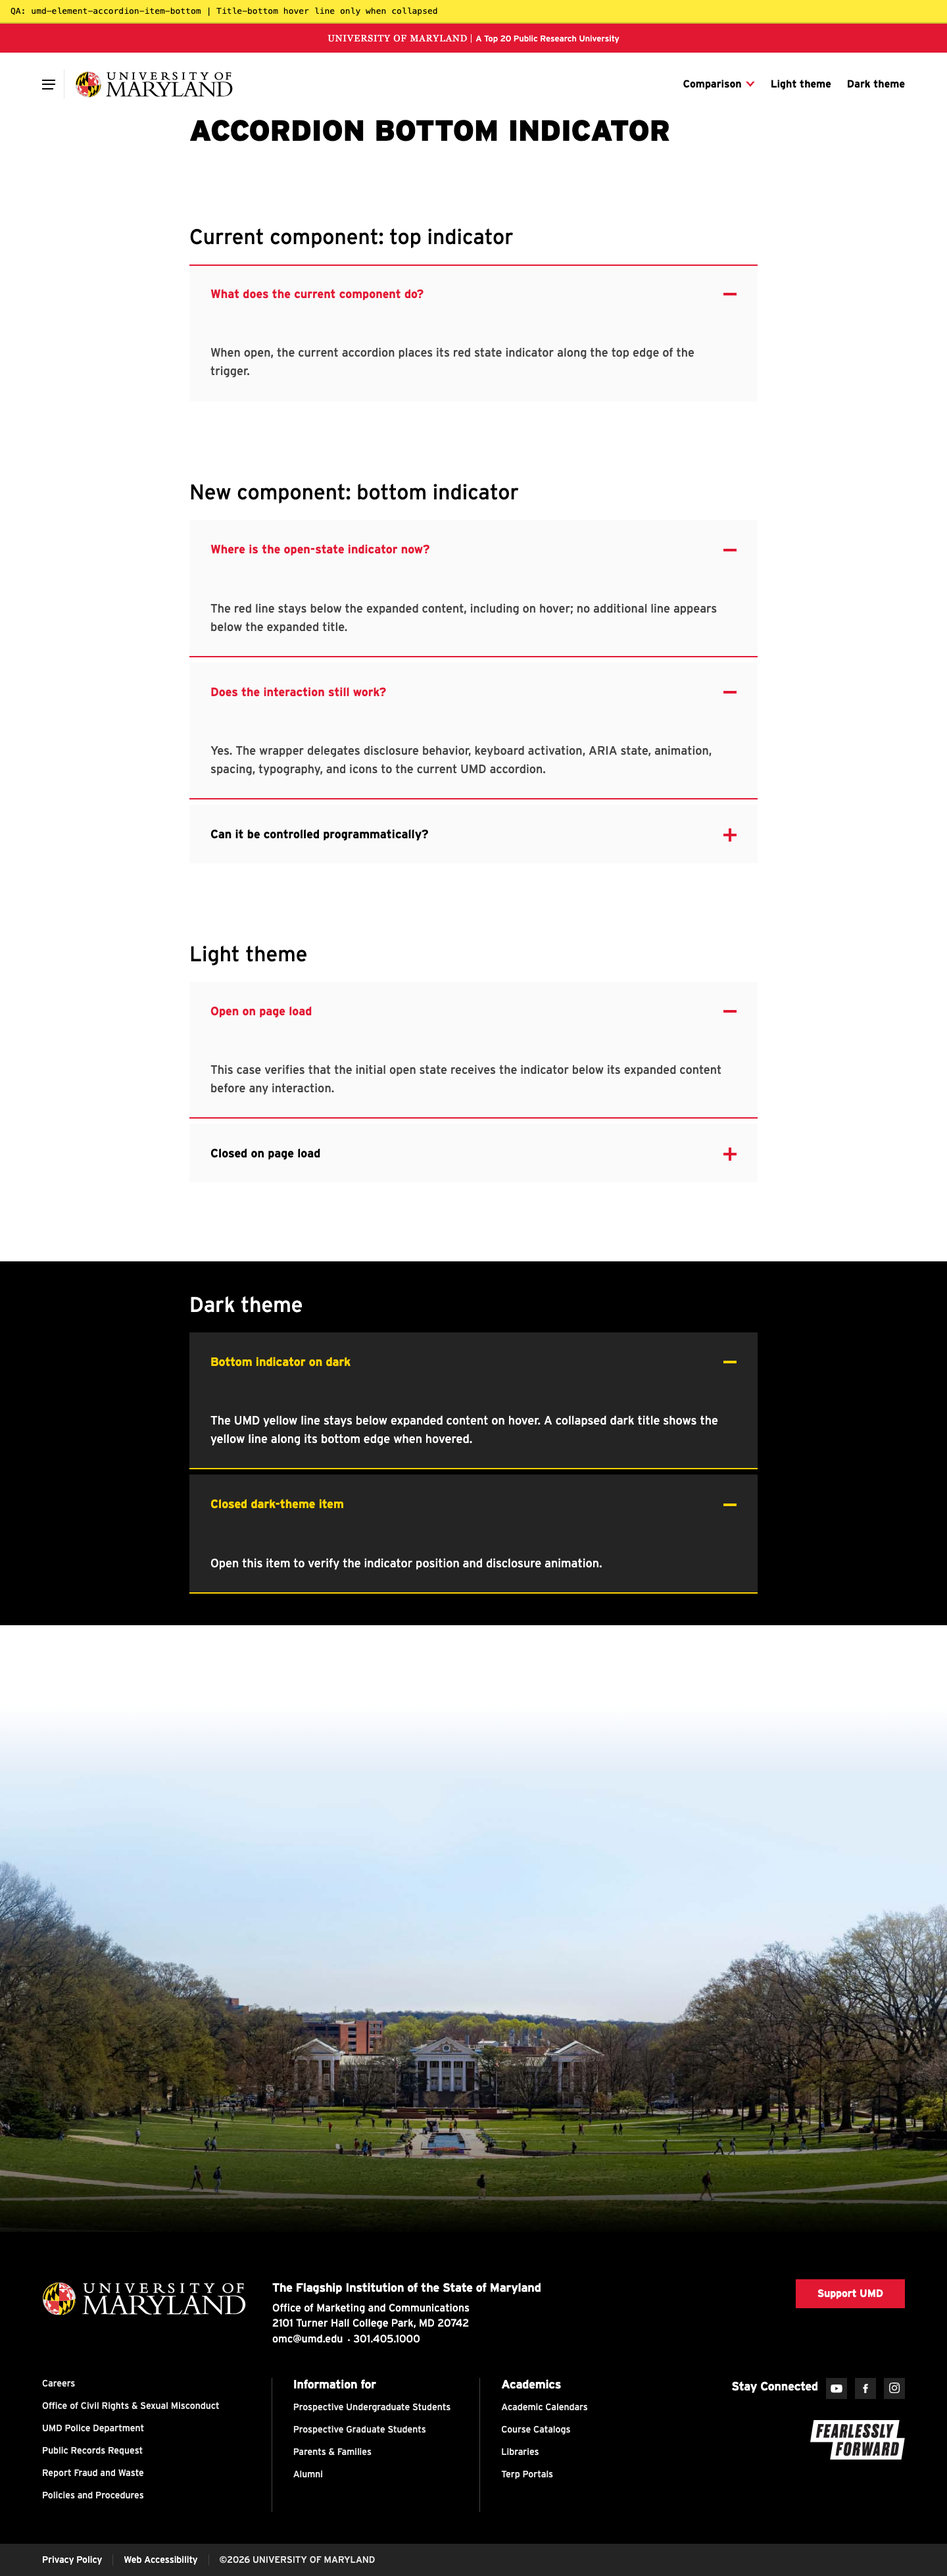
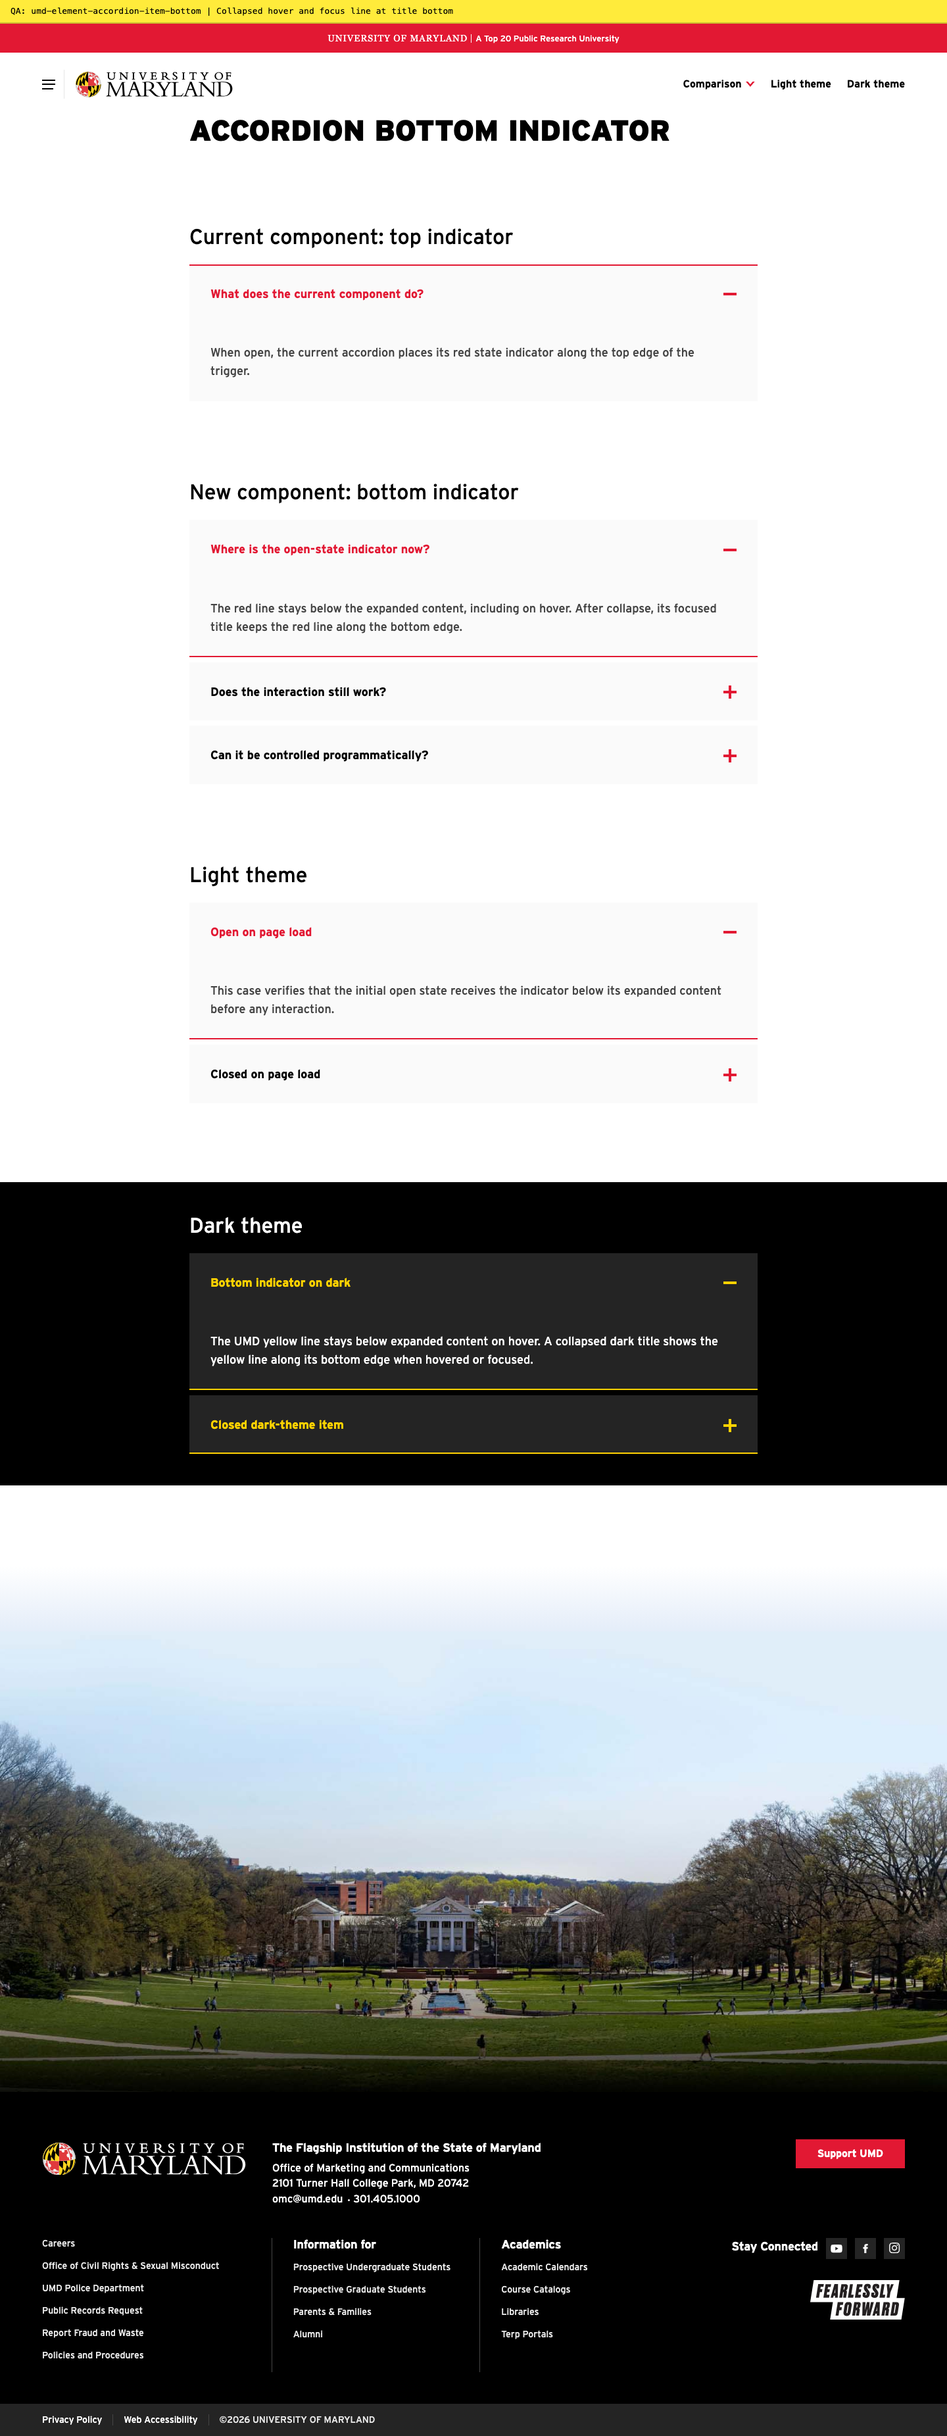
Keep collapsed focus indicators below titles

diff --git a/qa/accordion-bottom.html b/qa/accordion-bottom.html
@@ -541,11 +541,11 @@
 
   <script>window.process = { env: {} };</script>
   <script src="../public/umd-components.js"></script>
-  <script type="module" src="../src/accordion-bottom.js?v=collapsed-hover-1"></script>
+  <script type="module" src="../src/accordion-bottom.js?v=collapsed-focus-1"></script>
 </head>
 <body>
   <div style="background:#ffeb3b;color:#000;padding:8px 16px;font:13px/1.4 monospace;border-bottom:2px solid rgba(0,0,0,.2);position:sticky;top:0;z-index:9999;">
-    QA: umd-element-accordion-item-bottom | Title-bottom hover line only when collapsed
+    QA: umd-element-accordion-item-bottom | Collapsed hover and focus line at title bottom
   </div>
 
   <umd-element-navigation-utility data-alert-off="true" role="navigation" aria-label="Utility navigation"></umd-element-navigation-utility>
@@ -584,7 +584,7 @@
           <span slot="eyebrow">Component QA</span>
           <h1 slot="headline">Accordion bottom indicator</h1>
           <div slot="text">
-            <p>The open-state indicator stays below expanded content with no additional hover line. Collapsed titles show the indicator along their bottom edge on hover.</p>
+            <p>The open-state indicator stays below expanded content with no additional hover line. Collapsed titles show the indicator along their bottom edge on hover and focus.</p>
           </div>
         </umd-element-section-intro-wide>
       </div>
@@ -611,7 +611,7 @@
           <umd-element-accordion-item-bottom data-visual-open="true">
             <p slot="headline">Where is the open-state indicator now?</p>
             <div slot="text">
-              <p>The red line stays below the expanded content, including on hover; no additional line appears below the expanded title.</p>
+              <p>The red line stays below the expanded content, including on hover. After collapse, its focused title keeps the red line along the bottom edge.</p>
             </div>
           </umd-element-accordion-item-bottom>
           <umd-element-accordion-item-bottom>
@@ -657,7 +657,7 @@
           <umd-element-accordion-item-bottom data-theme="dark" data-visual-open="true">
             <p slot="headline">Bottom indicator on dark</p>
             <div slot="text">
-              <p>The UMD yellow line stays below expanded content on hover. A collapsed dark title shows the yellow line along its bottom edge when hovered.</p>
+              <p>The UMD yellow line stays below expanded content on hover. A collapsed dark title shows the yellow line along its bottom edge when hovered or focused.</p>
             </div>
           </umd-element-accordion-item-bottom>
           <umd-element-accordion-item-bottom data-theme="dark">

diff --git a/src/accordion-bottom.js b/src/accordion-bottom.js
@@ -17,7 +17,8 @@ const bottomIndicatorStyles = `
     box-shadow: inset 0 -2px 0 #e21833;
   }
 
-  .accordion-headline[aria-expanded='false']:hover {
+  .accordion-headline[aria-expanded='false']:hover,
+  .accordion-headline[aria-expanded='false']:focus {
     border-top-color: transparent !important;
     box-shadow: inset 0 -2px 0 #e21833;
   }
@@ -28,7 +29,9 @@ const bottomIndicatorStyles = `
   }
 
   :host([data-theme='dark'])
-    .accordion-headline[aria-expanded='false']:hover {
+    .accordion-headline[aria-expanded='false']:hover,
+  :host([data-theme='dark'])
+    .accordion-headline[aria-expanded='false']:focus {
     box-shadow: inset 0 -2px 0 #FFD200;
   }
 `;

diff --git a/test/accordion-bottom.test.js b/test/accordion-bottom.test.js
@@ -34,10 +34,14 @@ test('uses the UMD yellow indicator in the dark theme', () => {
   assert.match(componentSource, /inset 0 -2px 0 #FFD200/);
 });
 
-test('shows the title-bottom hover indicator only when collapsed', () => {
+test('shows the title-bottom hover and focus indicator when collapsed', () => {
   assert.match(
     componentSource,
-    /\.accordion-headline\[aria-expanded='false'\]:hover \{/,
+    /\.accordion-headline\[aria-expanded='false'\]:hover,/,
+  );
+  assert.match(
+    componentSource,
+    /\.accordion-headline\[aria-expanded='false'\]:focus \{/,
   );
   assert.doesNotMatch(
     componentSource,

diff --git a/README.md b/README.md
@@ -5,9 +5,9 @@ current UMD `umd-element-accordion-item`. It keeps the existing slots,
 attributes, animation, keyboard behavior, and ARIA state, while moving the red
 open-state line from the top of the trigger to the bottom of the expanded
 content. The indicator is UMD red in the light theme and UMD yellow in the dark
-theme. Collapsed titles show the indicator at the bottom of the title on hover.
-Expanded titles do not add a hover line; their indicator remains below the
-expanded content.
+theme. Collapsed titles show the indicator at the bottom of the title on hover
+and focus. Expanded titles do not add a hover line; their indicator remains
+below the expanded content.
 
 ## Run the QA page
 
